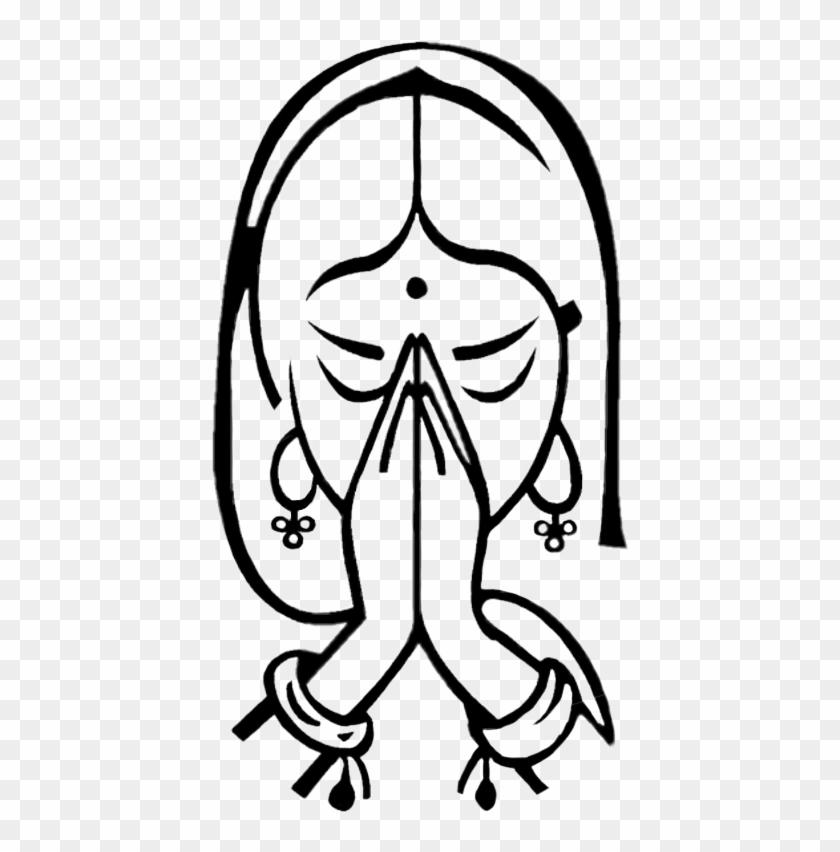
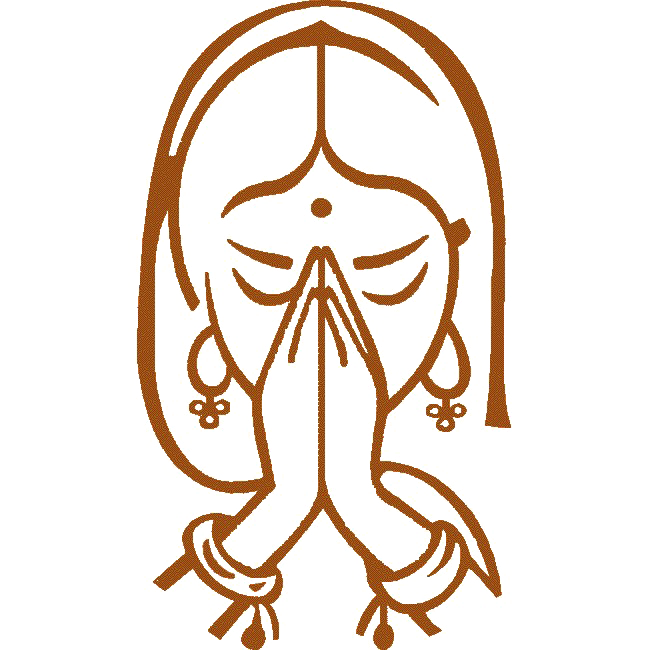
Images Updated

Changed region(s): [[0.1846, 0.0, 0.8, 1.0]]

diff --git a/lib/presentation/home_screen.dart b/lib/presentation/home_screen.dart
@@ -32,7 +32,10 @@ class _HomeScreenState extends State<HomeScreen> {
         ],
       ),
       body: Center(
-        child: Text(isDark ? 'Hello Good Evening' : 'Hello Good Morning'),
+        child: Image.asset(
+          isDark ? 'assets/evening.png' : 'assets/namaste.png',
+          height: 350,
+        ),
       ),
     );
   }
